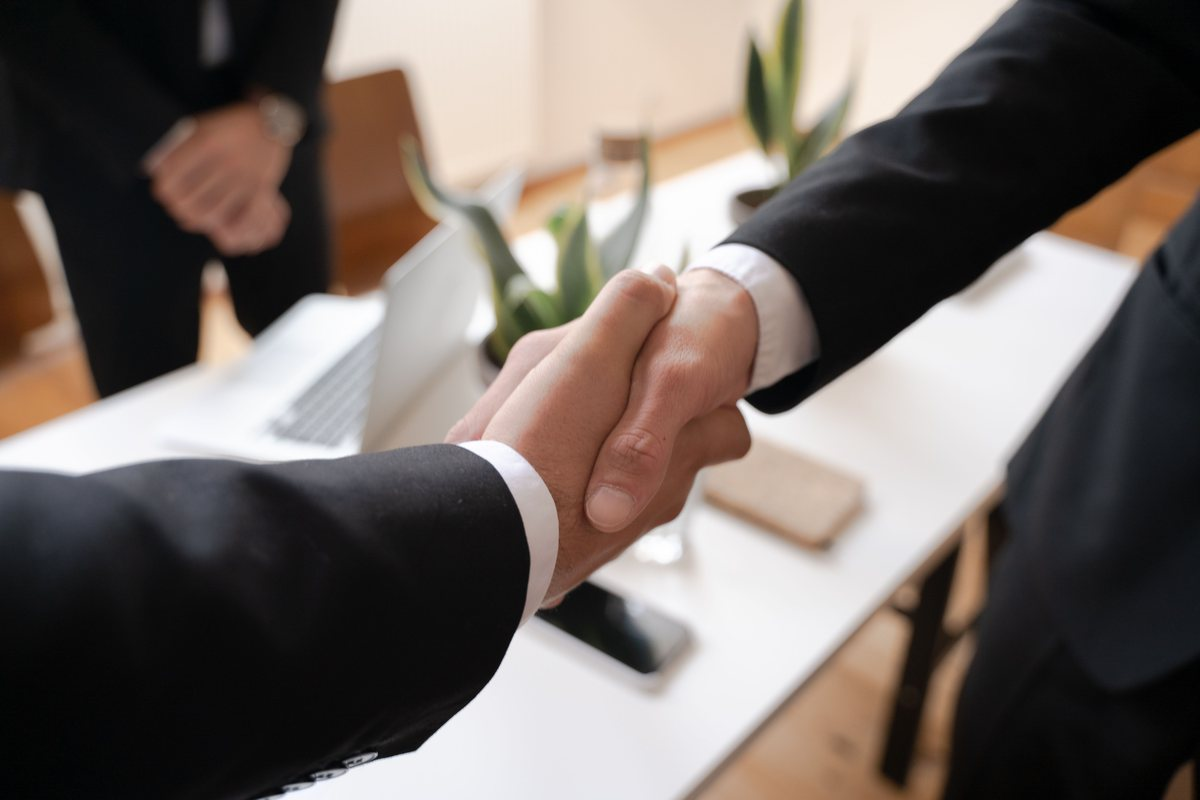
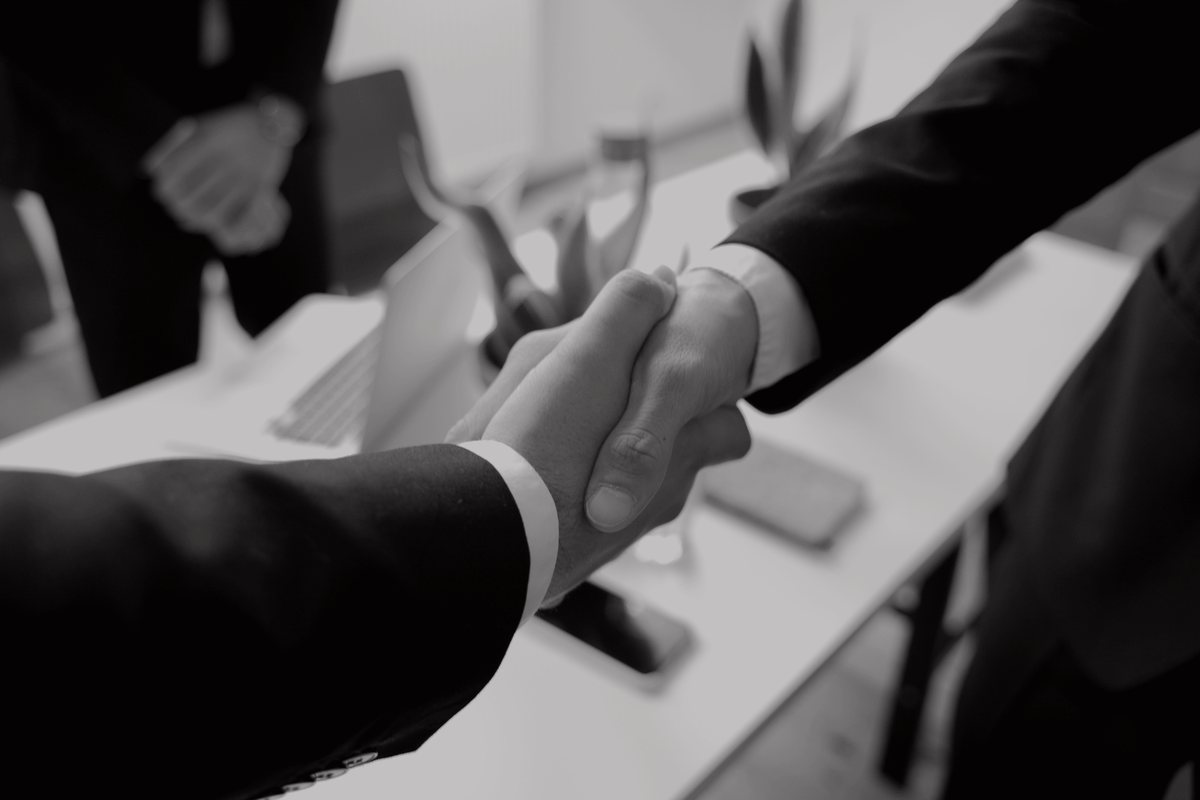
style(media): pone las fotos de Por que nosotros en B/N con velo caoba, mismo tratamiento que el blog

diff --git a/por-que-nosotros.html b/por-que-nosotros.html
@@ -194,13 +194,12 @@ src="https://www.facebook.com/tr?id=1753512212293395&ev=PageView&noscript=1"
     .why-block__media .why-block__photo {
       position: absolute; inset: 0;
       width: 100%; height: 100%; object-fit: cover;
-      filter: contrast(1.04) brightness(0.78) saturate(1.05);
     }
     .why-block__media::after {
       content: ""; position: absolute; inset: 0; pointer-events: none;
       background:
-        linear-gradient(180deg, rgba(13,13,13,0.15), rgba(13,13,13,0.62)),
-        linear-gradient(115deg, rgba(85,28,37,0.52), rgba(85,28,37,0.05) 60%);
+        linear-gradient(180deg, rgba(13,13,13,0) 40%, rgba(13,13,13,0.7)),
+        linear-gradient(120deg, rgba(85,28,37,0.5), rgba(85,28,37,0.04) 65%);
     }
 
     /* Values: left-border accent (patrón del manual) */
